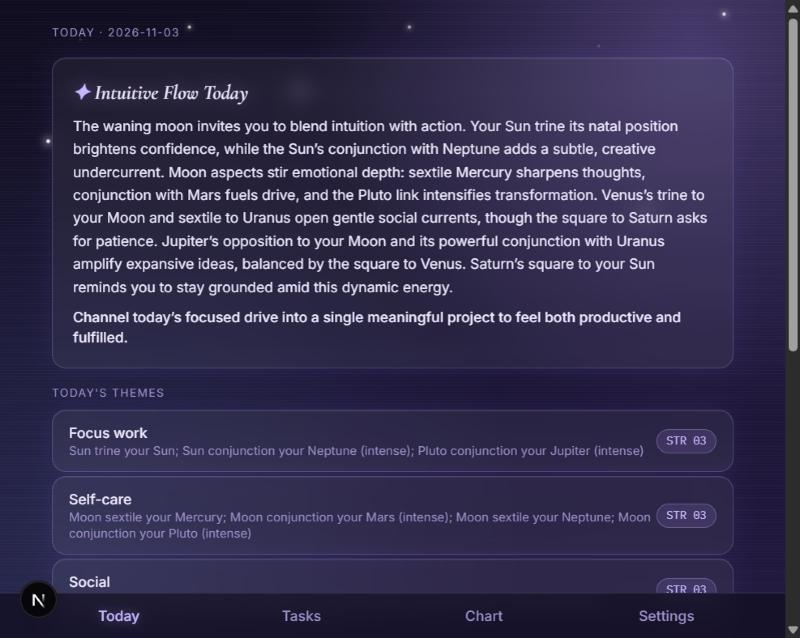
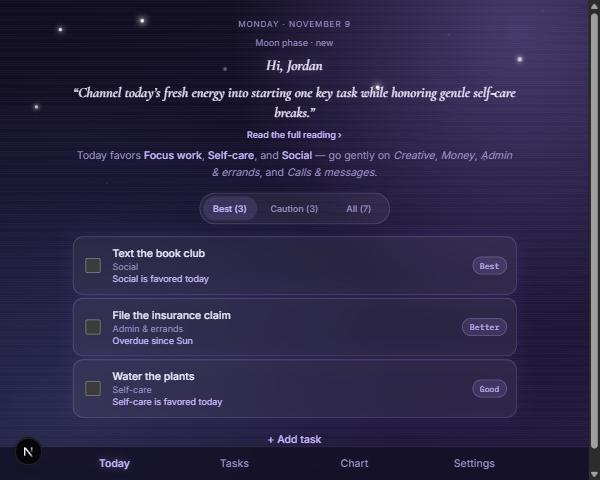
docs: refresh walkthrough screenshots for the current app
The old screenshots were from before the Today page redesign and the
Night/Day toggle, and the onboarding captions described a 3-step
Back/Next wizard that no longer exists (it's a single scrolling form
now). Retakes every screenshot and rewrites walkthrough.md to match
what's actually on screen, then drops the now-stale caveat from the
README.

diff --git a/docs/walkthrough.md b/docs/walkthrough.md
@@ -1,42 +1,32 @@
 # Astro Planner — Walkthrough
 
-A screenshot tour of every screen in the app, as of 2026-11-03 (through M7). Screenshots are from the Night theme unless noted; see the bottom of this doc for the Day theme.
+A screenshot tour of every screen in the app, as of 2026-11-09 (through M7, plus the Today page redesign and Night/Day toggle built after). Screenshots are from the Night theme unless noted; see the bottom of this doc for the Day theme.
 
 ---
 
-## Onboarding
+## Onboarding (`/onboarding`)
 
-New users answer three questions, one per step, with Back/Next.
+A single scrolling form: name (optional), birth date, birth time (exact, rough, or unknown — an unknown time means no houses or rising sign anywhere in the UI later), and a debounced birth place search against OpenStreetMap Nominatim, with required attribution.
 
-### Step 1 — Birth date
+![Top of the onboarding form: name, birth date, birth time](walkthrough-screenshots/07-onboarding-top.jpg)
 
-![Birth date step](walkthrough-screenshots/07-onboarding-1-birthdate.jpg)
+Choosing "Roughly" reveals a time-of-day picker instead of an exact time; the place search shows live results as you type.
 
-### Step 2 — Birth time
-
-Exact time, a rough window, or "I don't know" — the app adapts later screens to whichever is chosen (an unknown time means no houses or rising sign anywhere in the UI).
-
-![Birth time step, approximate windows shown](walkthrough-screenshots/08-onboarding-2-birthtime.jpg)
-
-### Step 3 — Birth place
-
-A debounced search against OpenStreetMap Nominatim, with required attribution.
-
-![Birth place step with live search results](walkthrough-screenshots/09-onboarding-3-birthplace.jpg)
+![Bottom of the onboarding form: rough time windows and live place search results](walkthrough-screenshots/08-onboarding-bottom.jpg)
 
 ---
 
 ## Today (`/`)
 
-The home screen: an AI-written daily reading (generated server-side via Groq, from chart facts only — never personal details), a breakdown of the day's astrological themes, and the to-do list ranked against those themes. Each of the top 3 tasks shows the single strongest reason it's ranked where it is; every task shows its numeric score.
+The home screen. A short pull-quote from the AI-written daily reading (generated server-side via Groq, from chart facts only — never personal details) expands in place to the full reading plus a plain-language "why" behind each of today's themes — no astrology jargon assumed. Below that, a one-line mood summary and Best / Caution / All tabs over the ranked to-do list. Each task shows a plain-language tier chip (Best, Better, Good, Gentle) with the full scoring breakdown on hover.
 
-![Today screen with reading, themes, and ranked tasks](walkthrough-screenshots/01-today.jpg)
+![Today screen with the quote hero and Best tab open](walkthrough-screenshots/01-today.jpg)
 
 ---
 
 ## Tasks (`/tasks`)
 
-The full task list — open tasks first, then recently completed ones (crossed out). Add, edit, and delete (with a confirm step) all happen inline.
+The full task list — open tasks first, then completed (last 7 days). A "Sort by" toggle switches the open-task order between due date and today's points, with the same hover breakdown as Today. Add, edit, and delete (with a confirm step) all happen inline.
 
 ![Tasks list](walkthrough-screenshots/02-tasks.jpg)
 
@@ -66,21 +56,21 @@ Adds exact degrees, houses, and a full natal aspects table.
 
 ![Settings screen](walkthrough-screenshots/06-settings.jpg)
 
-Currently just the data-reset option. Edit-birth-details and About/credits are still open items for M8.
+Data reset (with a confirm step) and the Appearance toggle. About/credits is still an open item for M8.
 
 ---
 
 ## Night vs. Day theme
 
-The app follows `prefers-color-scheme` with no manual toggle — deep indigo and stars at night, a sunrise gradient and drifting clouds by day.
+Settings → Appearance has an Auto / Day / Night toggle (Auto follows `prefers-color-scheme`). Deep indigo and stars at night, a sunrise gradient and drifting clouds by day.
 
 **Night** (see Today screenshot above) · **Day:**
 
-![Today screen in the Day theme](walkthrough-screenshots/10-today-day-theme.jpg)
+![Today screen in the Day theme](walkthrough-screenshots/09-today-day-theme.jpg)
 
 ---
 
 ## Notes
 
-- All screenshots are desktop width; the layout is also responsive down to phone widths (verified at 375px and 320px) as of the 2026-11-03 responsive pass.
+- All screenshots are desktop width; the layout is also responsive down to phone widths (verified at 375px and 320px).
 - Not pictured: loading/empty/error states (e.g. "No tasks yet," a failed Groq call falling back to a quick-guide reading, a failed localStorage save) — these all exist per-screen but are harder to capture as a static screenshot.

diff --git a/README.md b/README.md
@@ -6,7 +6,7 @@ Astro Planner reads your natal chart and the day's planetary transits, writes a 
 
 <!-- TODO before sharing: record a fresh 10-second GIF of the Today screen (the current quote-hero + tabs layout) and link it here. It's the first thing reviewers look at. -->
 
-See [`docs/walkthrough.md`](docs/walkthrough.md) for a screenshot tour — note it predates the Today page redesign (quote hero, Best/Caution/All tabs), so the Today screenshots there are out of date.
+See [`docs/walkthrough.md`](docs/walkthrough.md) for a screenshot tour of every screen.
 
 ---
 
